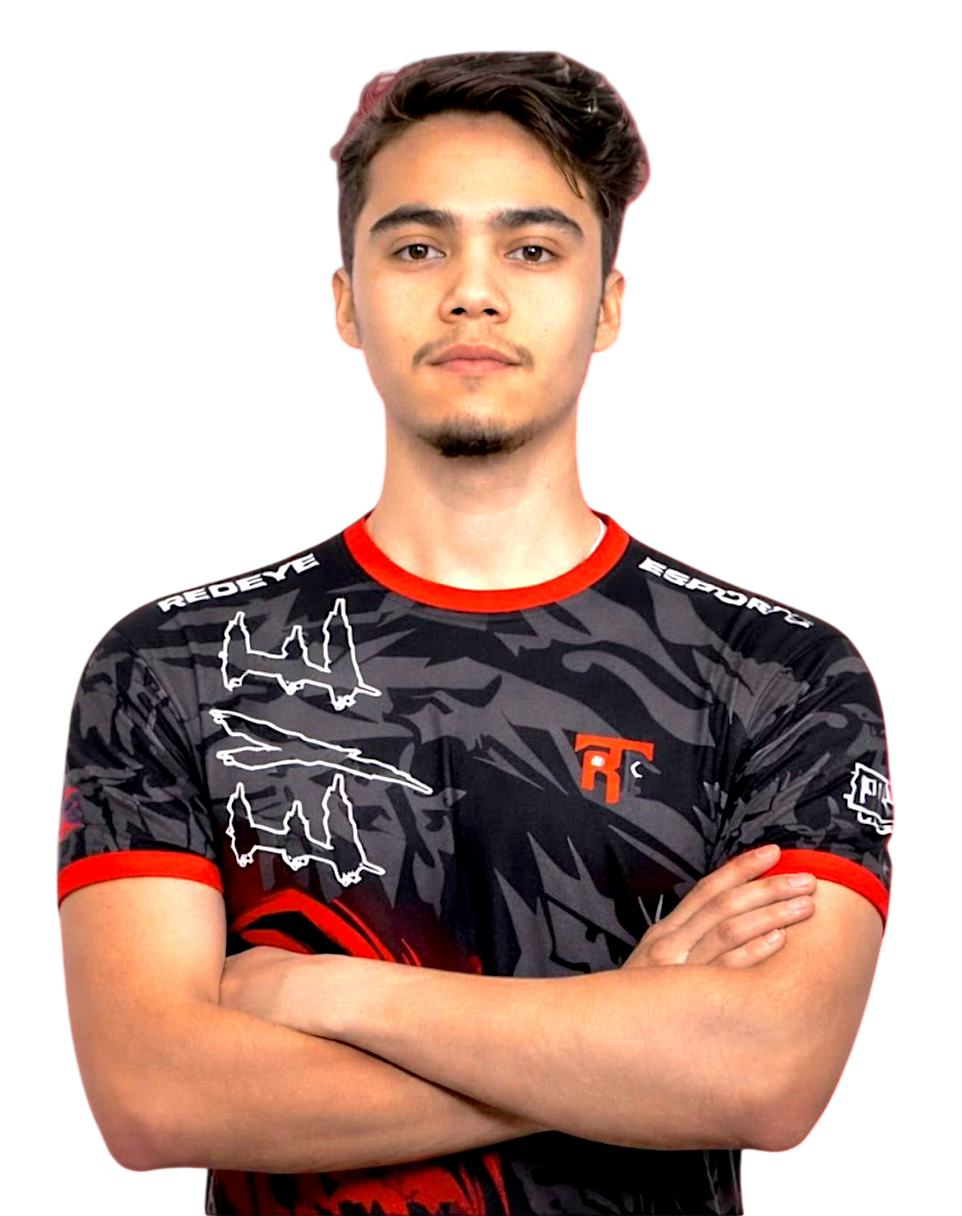
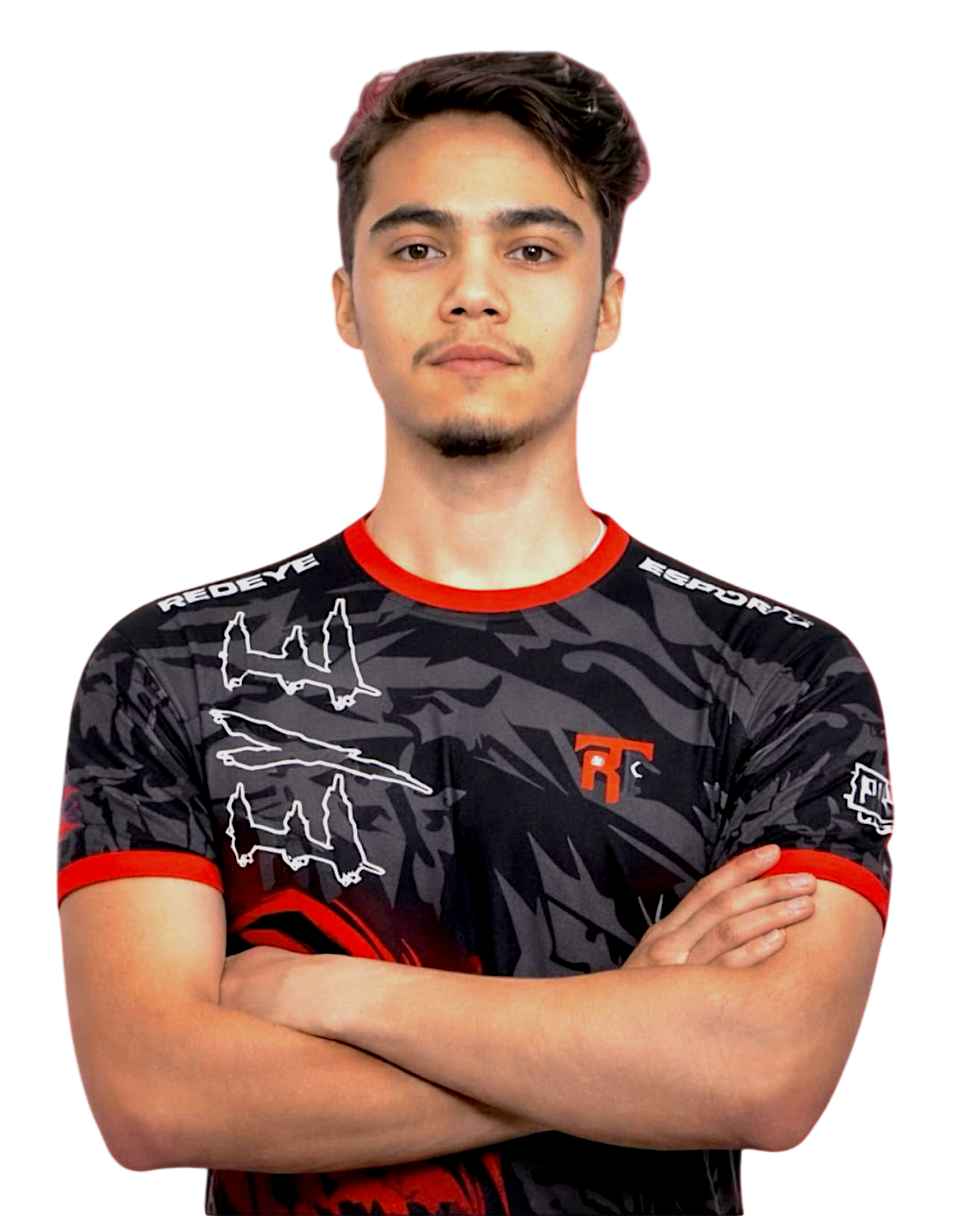
push1

diff --git a/src/Components/SS20/index.jsx b/src/Components/SS20/index.jsx
@@ -1,12 +1,23 @@
 import React from "react";
 import "./index.scss";
 
-import r1 from "../../../public/pics/roster8-png.png";
-import r2 from "../../../public/pics/roster6-png.png";
-import r3 from "../../../public/pics/roster5-png.png";
-import r4 from "../../../public/pics/roster9-png.png";
+// import r1 from "../../../public/pics/roster10-png.png";
+// import r2 from "../../../public/pics/roster2-png.png";
+// import r3 from "../../../public/pics/roster3-png.png";
+// import r4 from "../../../public/pics/roster4-png.png";
 
-import cratelogo from "../../../public/pics/crate23-2.png";
+import r1 from "../../../public/pics/fake2.png";
+import r2 from "../../../public/pics/fake1.png";
+import r3 from "../../../public/pics/fake3.png";
+import r4 from "../../../public/pics/fake4.png";
+
+// import r1 from "../../../public/pics/fake1.png";
+// import r2 from "../../../public/pics/fake5.png";
+// import r3 from "../../../public/pics/fake4.png";
+// import r4 from "../../../public/pics/fake3.png";
+
+import cratelogo from "../../../public/pics/crate20-2.png";
+// import cratelogo from "../../../public/pics/crate23-2.png";
 
 import bg from "../../../public/pics/bg4.jpg";
 import sponsors from "../../../public/pics/sponsor-b.png";
@@ -37,7 +48,7 @@ const SuperSunday = () => {
           <h1 className="main-title">SUPER SUNDAY</h1>
           <div className="header-info-row">
             <div className="badge time">
-              <span>23:00 CEST</span>
+              <span>20:00 CEST</span>
             </div>
             <div className="badge prize">
               <span>PRIZE: €20</span>

diff --git a/src/Components/SS20/index.scss b/src/Components/SS20/index.scss
@@ -8,14 +8,14 @@ $agency-bg: rgba(87, 2, 85, 0.6);
 $agency-text-color: rgb(255, 255, 255);
 $bg-color-top: rgba(255, 0, 122, 0.1);
 
-$primary-pink: rgb(0, 170, 255);     // Your new Cyan color
-$slot-background: #a4c7c2;          // White for the grid base
-$text-dark: #000000;                // Pure Black for high contrast
-$overlay-color: rgba(98, 251, 238, 0.516); // Heavy white overlay to fade the BG image
-$divier-background-color: rgba(0, 255, 242, 0.869); // Faint cyan wash
-$agency-bg: rgb(0, 174, 255);  // Very light cyan glass effect
-$agency-text-color: #000000;
-$bg-color-top: rgba(0, 255, 234, 0.178);
+// $primary-pink: rgb(0, 170, 255);     // Your new Cyan color
+// $slot-background: #a4c7c2;          // White for the grid base
+// $text-dark: #000000;                // Pure Black for high contrast
+// $overlay-color: rgba(98, 251, 238, 0.516); // Heavy white overlay to fade the BG image
+// $divier-background-color: rgba(0, 255, 242, 0.869); // Faint cyan wash
+// $agency-bg: rgb(0, 174, 255);  // Very light cyan glass effect
+// $agency-text-color: #000000;
+// $bg-color-top: rgba(0, 255, 234, 0.178);
 
 
 $content-width: 1100px;
